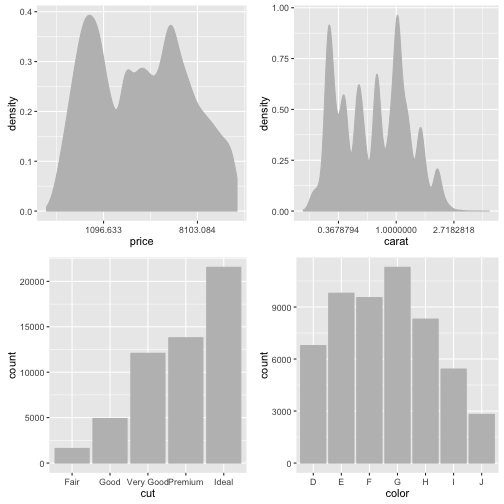
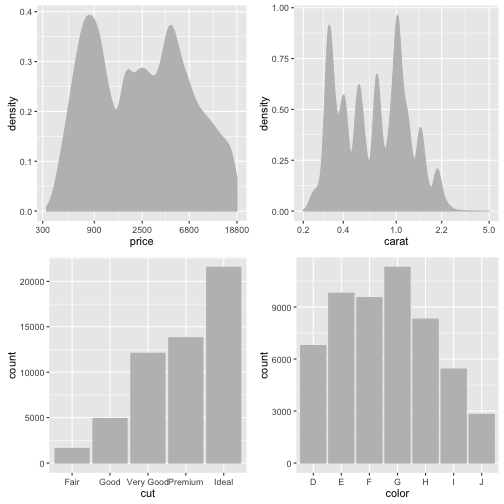
integrated disq, furthered ggplot2 blogpost

diff --git a/_layouts/post.html b/_layouts/post.html
@@ -18,5 +18,29 @@ layout: default
   <article class="post-content">
     {{ content }}
   </article>
+  {% if page.comments %}
+    <div id="disqus_thread"></div>
+      <script>
+
+      /**
+      *  RECOMMENDED CONFIGURATION VARIABLES: EDIT AND UNCOMMENT THE SECTION BELOW TO INSERT DYNAMIC VALUES FROM YOUR PLATFORM OR CMS.
+      *  LEARN WHY DEFINING THESE VARIABLES IS IMPORTANT: https://disqus.com/admin/universalcode/#configuration-variables*/
+      /*
+      var disqus_config = function () {
+      this.page.url = PAGE_URL;  // Replace PAGE_URL with your page's canonical URL variable
+      this.page.identifier = PAGE_IDENTIFIER; // Replace PAGE_IDENTIFIER with your page's unique identifier variable
+      };
+      */
+      (function() { // DON'T EDIT BELOW THIS LINE
+      var d = document, s = d.createElement('script');
+      s.src = '//lorenzwalthert.disqus.com/embed.js';
+      s.setAttribute('data-timestamp', +new Date());
+      (d.head || d.body).appendChild(s);
+      })();
+      </script>
+      <noscript>Please enable JavaScript to view the <a href="https://disqus.com/?ref_noscript">comments powered by Disqus.</a></noscript>
+
+  {% endif %}
+
 
 </div>

diff --git a/_posts/2016-10-07-ggplo2.md b/_posts/2016-10-07-ggplo2.md
@@ -1,13 +1,41 @@
 ---
 title: "Programming with ggplot2"
-description: How you can make ggplot really flexible and apply to a lot of different
-  data types.
+description: How one can take advantage of integrating ggplot with core 
+  elements of the R language to create more flexible and adaptive plots while 
+  reduce redundancy. In particular, this post discusses how we can apply a set
+  of functions over all columns of a dataframe to produce plots for each column
+  that depend on the class of the current column. 
 date: "2016-10-7 20:25"
 permalink: /anonblogentry/
 tags: ggplot2
 layout: post
+comments: true
 ---
-Look at the subset of the `diamonds` dataset below.
+
+## Introduction
+<br/>
+This series discusses how we can apply a set of functions over all 
+columns of a dataframe to produce plots for each column that depend on the 
+class of the current column. 
+To this end, we integrate the following concepts / functions:
+
+* the `ggplot2` package
+* `lapply`
+* anonymous functions
+* non-standard evaluation
+* lexical scoping
+
+The reader should be familiar with these concepts, otherwise, Hadley Wickham's
+[Advanced R](http://adv-r.had.co.nz) might be a good starting point to read 
+up on these topics (all except the first one).
+
+The approach discussed here generalizes to
+other situations in which one want to customize plots based on the 
+characteristics of input data.
+
+## Problem
+<br/>
+For this blog post, we are going to use a subset of the diamonds dataset.
 
 {% highlight r %}
 library("tidyverse")
@@ -17,12 +45,28 @@ source("multiplot.R") # http://www.cookbook-r.com/Graphs/Multiple_graphs_on_one_
 
 {% highlight r %}
 dta <- select(diamonds, price, cut, carat, color)
+head(dta)
 {% endhighlight %}
 
-Now, imagine you want a quick summary for each variable. Unfortunately, the 
-variabels are not all of the same class.
+
+
+{% highlight text %}
+## # A tibble: 6 × 4
+##   price       cut carat color
+##   <int>     <ord> <dbl> <ord>
+## 1   326     Ideal  0.23     E
+## 2   326   Premium  0.21     E
+## 3   327      Good  0.23     E
+## 4   334   Premium  0.29     I
+## 5   335      Good  0.31     J
+## 6   336 Very Good  0.24     J
+{% endhighlight %}
+
+Now, imagine you want a quick visual summary for each variable. Unfortunately, 
+the variabels are not all of the same class.
 For the factors, you could do a bar chart, for the integers, you might wan to
-use a density plot. You could do the following for cut and color.
+use a density plot. You could do the following for cut and color. Let's have
+a look at a first approach.
 
 {% highlight r %}
 p1 <- ggplot(dta, aes(cut)) + geom_bar()
@@ -32,20 +76,24 @@ p2 <- ggplot(dta, aes(color)) + geom_bar()
 Similarly, you can do for price and carat
 
 {% highlight r %}
-p3 <- ggplot(dta, aes(price)) + geom_density(color = "black", fill = "black")
-p4 <- ggplot(dta, aes(carat)) + geom_density(color = "black", fill = "black")
+p3 <- ggplot(dta, aes(price)) + geom_density()
+p4 <- ggplot(dta, aes(carat)) + geom_density()
 
 multiplot(p1, p2, p3, p4, cols = 2)
 {% endhighlight %}
 
 ![plot of chunk unnamed-chunk-4](/figure/source/2016-10-07-ggplo2/unnamed-chunk-4-1.png)
+<br/>
 
 Now, you can note two things
 
-* you have a lot of code duplication
-* you need to futher customize the second graph with a transformation to
+* you have a lot of code duplication.
+* you might want to futher customize the density graphs with a transformation to
   make the visualization more intersting.
   
+  
+## A solution
+<br/>
 To address the first problem, part of the answer is creating a function that
 behaves differently depending on whether the input is factorial or numeric.
 
@@ -65,22 +113,23 @@ that you used in `aes` of `ggplot`.
 Similarly, we can define a function `scale_x_adapt` that returns a transformed
 scale if the input is numerical (using the `current_class` function again.)
 Having defined that function, you could 
-rewrite the above as follows.
+rewrite the above as follows:
 
 {% highlight r %}
 ggplot(dta, aes(color)) + geom_hist_or_bar()
 ggplot(dta, aes(cut))   + geom_hist_or_bar()
-ggplot(dta, aes(price))  + geom_hist_or_bar()
-ggplot(dta, aes(carat))   + geom_hist_or_bar()
+ggplot(dta, aes(price)) + geom_hist_or_bar()
+ggplot(dta, aes(carat)) + geom_hist_or_bar()
 {% endhighlight %}
 This is a slight improvement to the first solution, because you always call the
 same functions for all plots. Hence, we can kind of use an `apply` approach to 
-reduce the redundancy of this problem. You might think of the following
+reduce the redundancy of this problem. You might think of the following:
 
 {% highlight r %}
 lapply(dta, function(g) ggplot(dta, aes(g)) + geom_hist_or_bar)
 {% endhighlight %}
-Unfortunately, this does not quite work, because `x` will be the actual 
+Unfortunately, this does not quite work, because for each iteration in 
+`lapply`, `g` will be the actual 
 values from each column, but in `aes`, you need the name of the column, not the 
 actual value. Since there is no way to get from the values to the names, but 
 if we have the names, we can get the values, the trick is to loop over the names
@@ -88,20 +137,20 @@ of the data frame. In this case, we need to wrap the names in `as.list`, because
 names will be a vector, but `lapply` wants to iterate over a list.
 
 {% highlight r %}
-lapply(as.list(names(dta)), function(x) ggplot(dta, aes(x)) + geom_hist_or_bar)
+lapply(as.list(names(dta)), function(g) ggplot(dta, aes(g)) + geom_hist_or_bar)
 {% endhighlight %}
 However, we are not quite there yet. Due to non-standard evaluation, we need to 
-further change two things.
+further change two things:
 
-* use `_aes` instead of `_aes` so `x` is not acutally x, but points to something
+* use `_aes` instead of `_aes` so `g` is not acutally g, but points to something
   else.
-* use `as.name(x)` instead of `x` because `x` is just the name of an object (i.e. 
+* use `as.name(g)` instead of `g` because `g` is just the name of an object (i.e. 
   "cut" for the first iteration), not the object itself. 
   
 Now, we are done.
 
 {% highlight r %}
-lapply(as.list(names(dta)), function(g) { # seems as it needs to be a list!
+lapply(as.list(names(dta)), function(g) {
   ggplot(dta, aes_(as.name(g))) + 
     geom_hist_or_bar() +
     scale_x_adapt()
@@ -122,18 +171,18 @@ current_class <- function() {
 # * first element since object can have multiple classes
 {% endhighlight %}
 
-Finally, we can get it running
+Finally, we can put it all together:
 
 {% highlight r %}
-current_class <- function() {
-  # returns the first class of the current iteration*
-  class(dta[[get("g", parent.frame(n = 2))]])[1]
+current_property <- function(f, n = 2) {
+  # returns a property of the current iteration object
+  f(dta[[get("g", parent.frame(n = n))]])[1]
 }
-# * first element since object can have multiple classes
+
 
 geom_hist_or_bar <- function() {
   color <- "gray"
-  if(current_class() %in% c("integer", "numeric")) {
+  if(current_property(class) %in% c("integer", "numeric")) {
   geom_density(color = color, fill = color)
   } else {
   geom_bar(color = color, fill = color)
@@ -141,21 +190,28 @@ geom_hist_or_bar <- function() {
 }
 
 scale_x_adapt <- function() {
-  if(current_class() %in% c("integer", "numeric")) {
-    scale_x_continuous(trans = "log") 
+  if(current_property(class) %in% c("integer", "numeric")) {
+    # calculate the breaks
+    
+    calc_breaks <- round(exp(seq(log(current_property(min)), log(current_property(max)), 
+        length.out = 5)), -log10(current_property(max) - current_property(min)) + 2)
+    
+    scale_x_continuous(trans = "log", 
+      breaks = calc_breaks)
   } else {
     scale_x_discrete()
   }
   
 }
 
-all_plots <- lapply(as.list(names(dta)), function(g) { # seems as it needs to be a list!
+all_plots <- lapply(as.list(names(dta)), function(g) { 
   ggplot(dta, aes_(as.name(g))) + 
     geom_hist_or_bar() +
     scale_x_adapt()
 })
 
-do.call("multiplot", list(plotlist = all_plots, cols = 2)) # use plotlist not ... as input
+# use plotlist not ... as input
+do.call("multiplot", list(plotlist = all_plots, cols = 2)) 
 {% endhighlight %}
 
 ![plot of chunk unnamed-chunk-11](/figure/source/2016-10-07-ggplo2/unnamed-chunk-11-1.png)

diff --git a/about.md b/about.md
@@ -30,6 +30,9 @@ out my [LinkedIn](https://ch.linkedin.com/in/lorenzwalthert) profile.
 	<a href="https://twitter.com/lorenzwalthert" target="_blank"><i class="fa fa-twitter-square"></i></a>
 </span>
 
+<!--
+
 <div class="col three caption">
 	You can even add a little note about which of these is the best way to reach you.
 </div>
+-->

diff --git a/software_development.md b/software_development.md
@@ -3,7 +3,7 @@ title: "software development"
 layout: page
 permalink: /development/
 ---
-Recently, I have been involved in two projects related to 
+Recently, I have been involved in the following projects related to 
 software development: 
 
 - *refactor. Better factor handling with R.* This is an 
